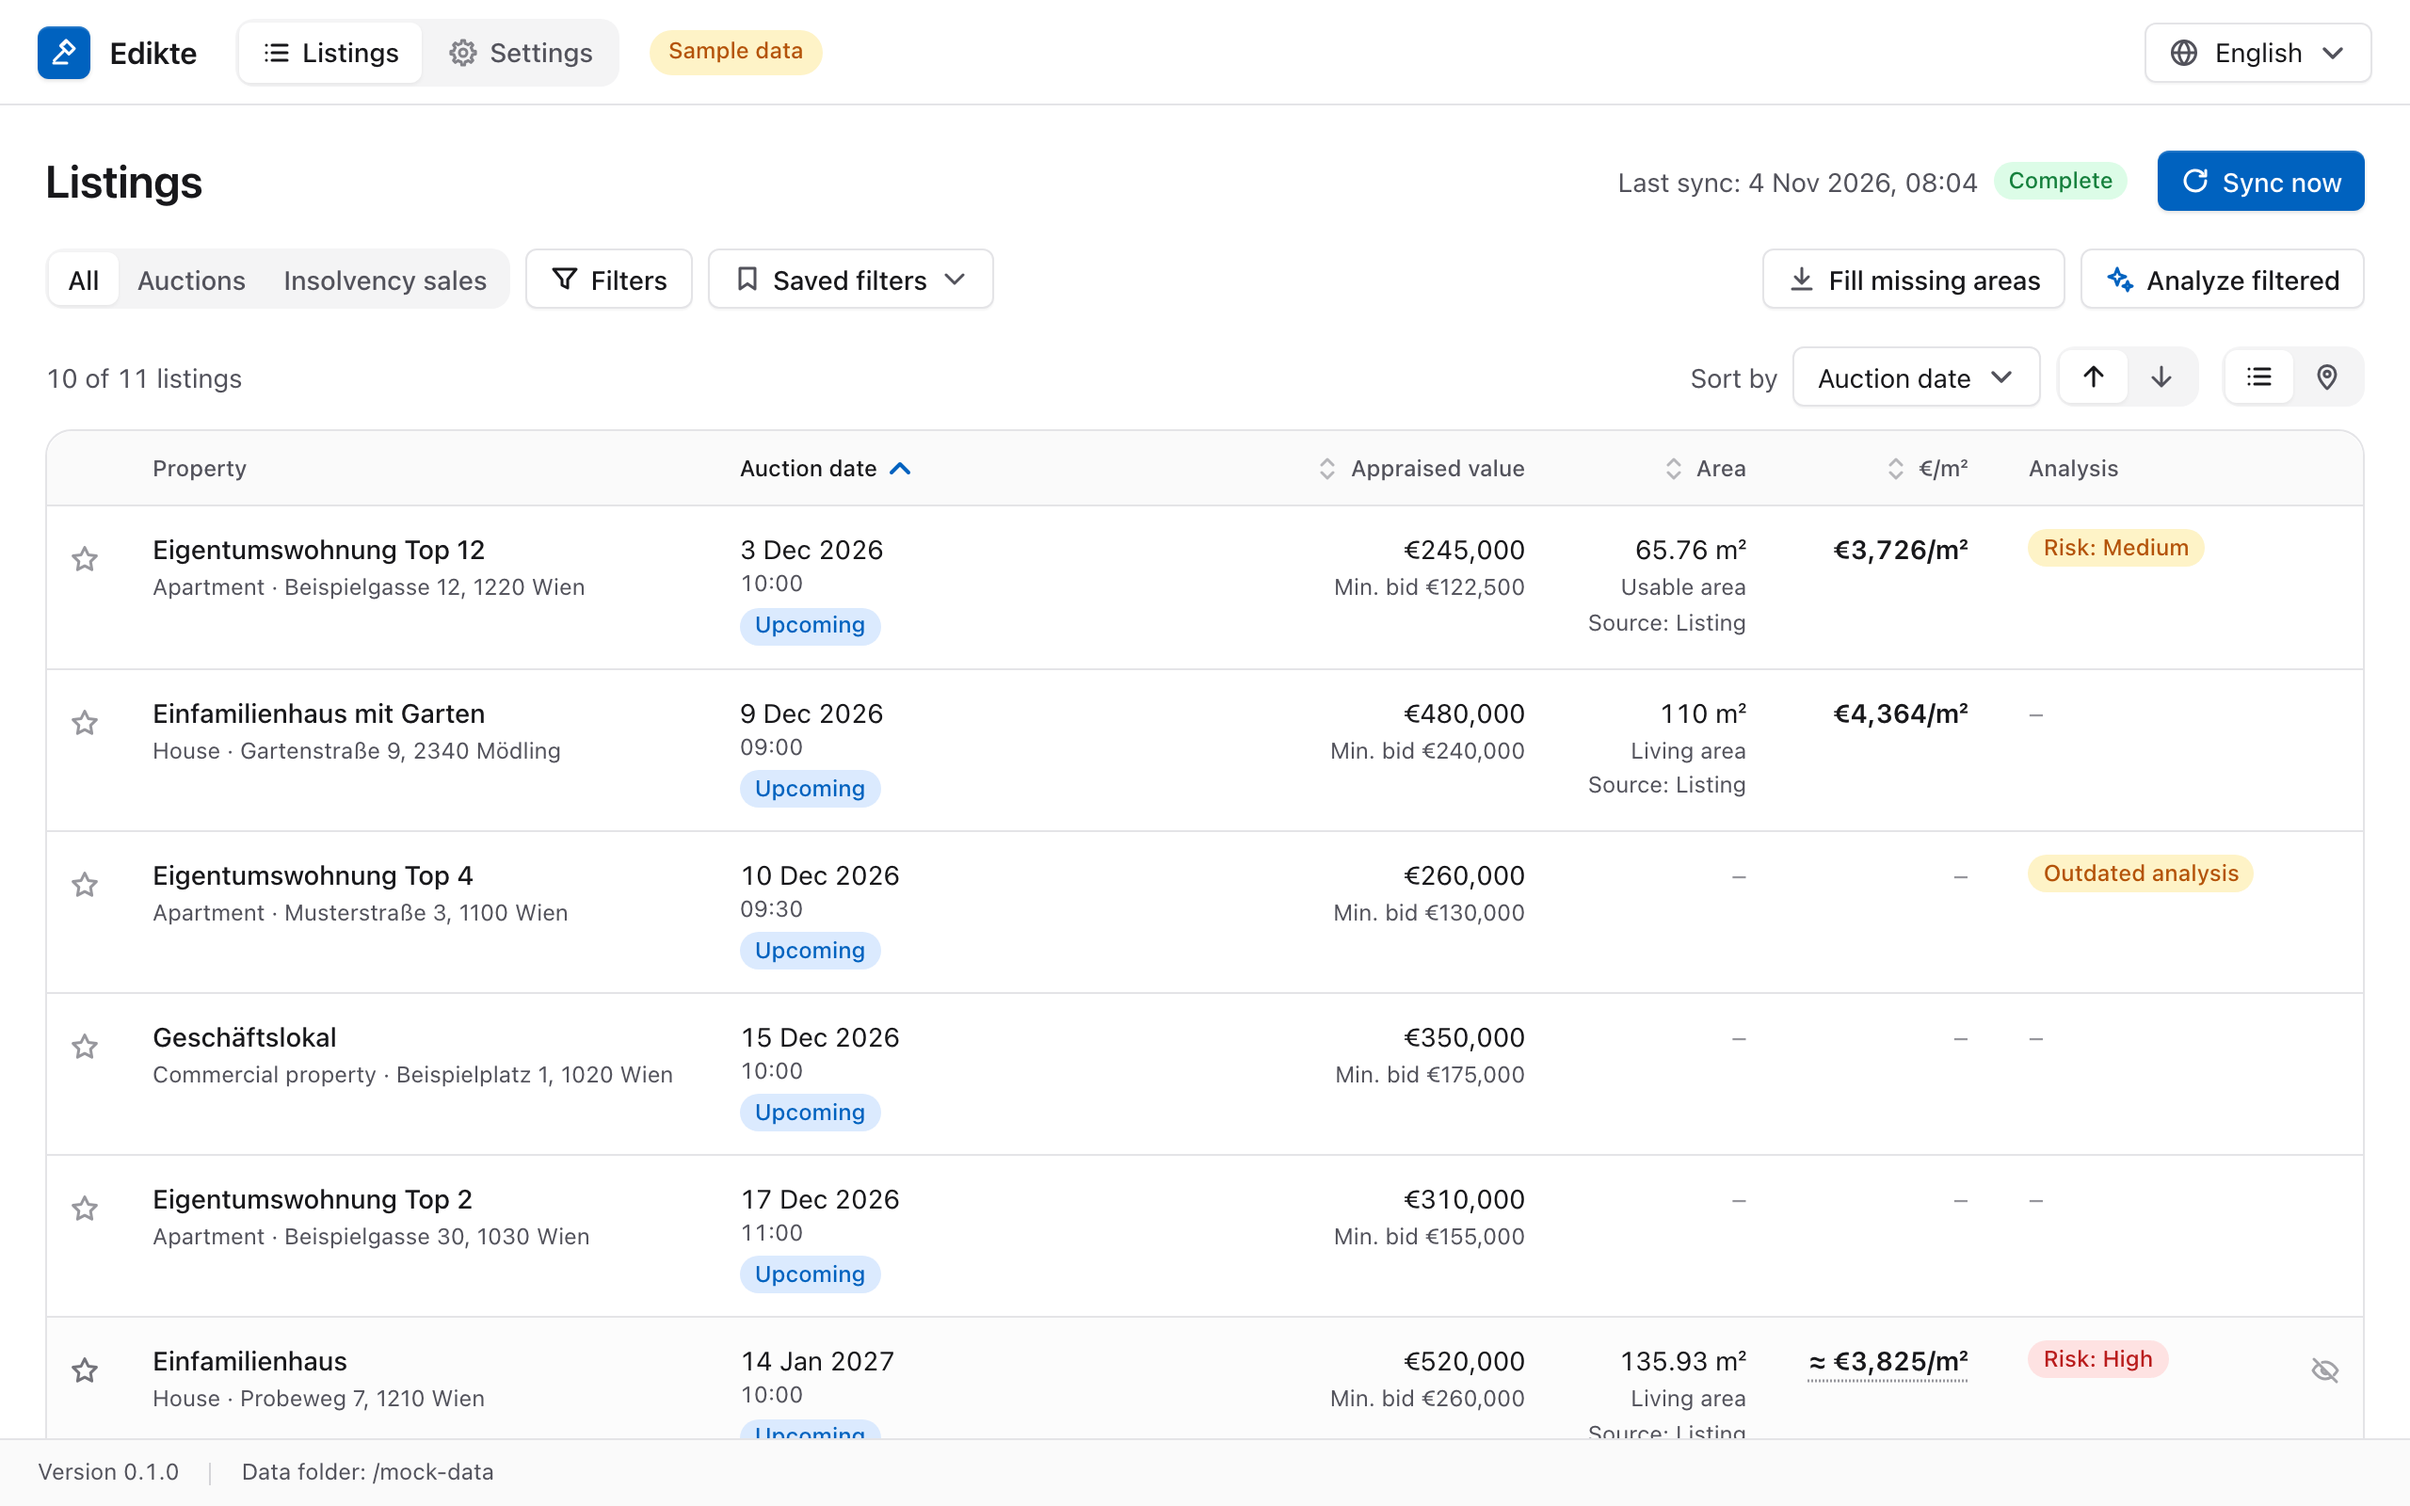
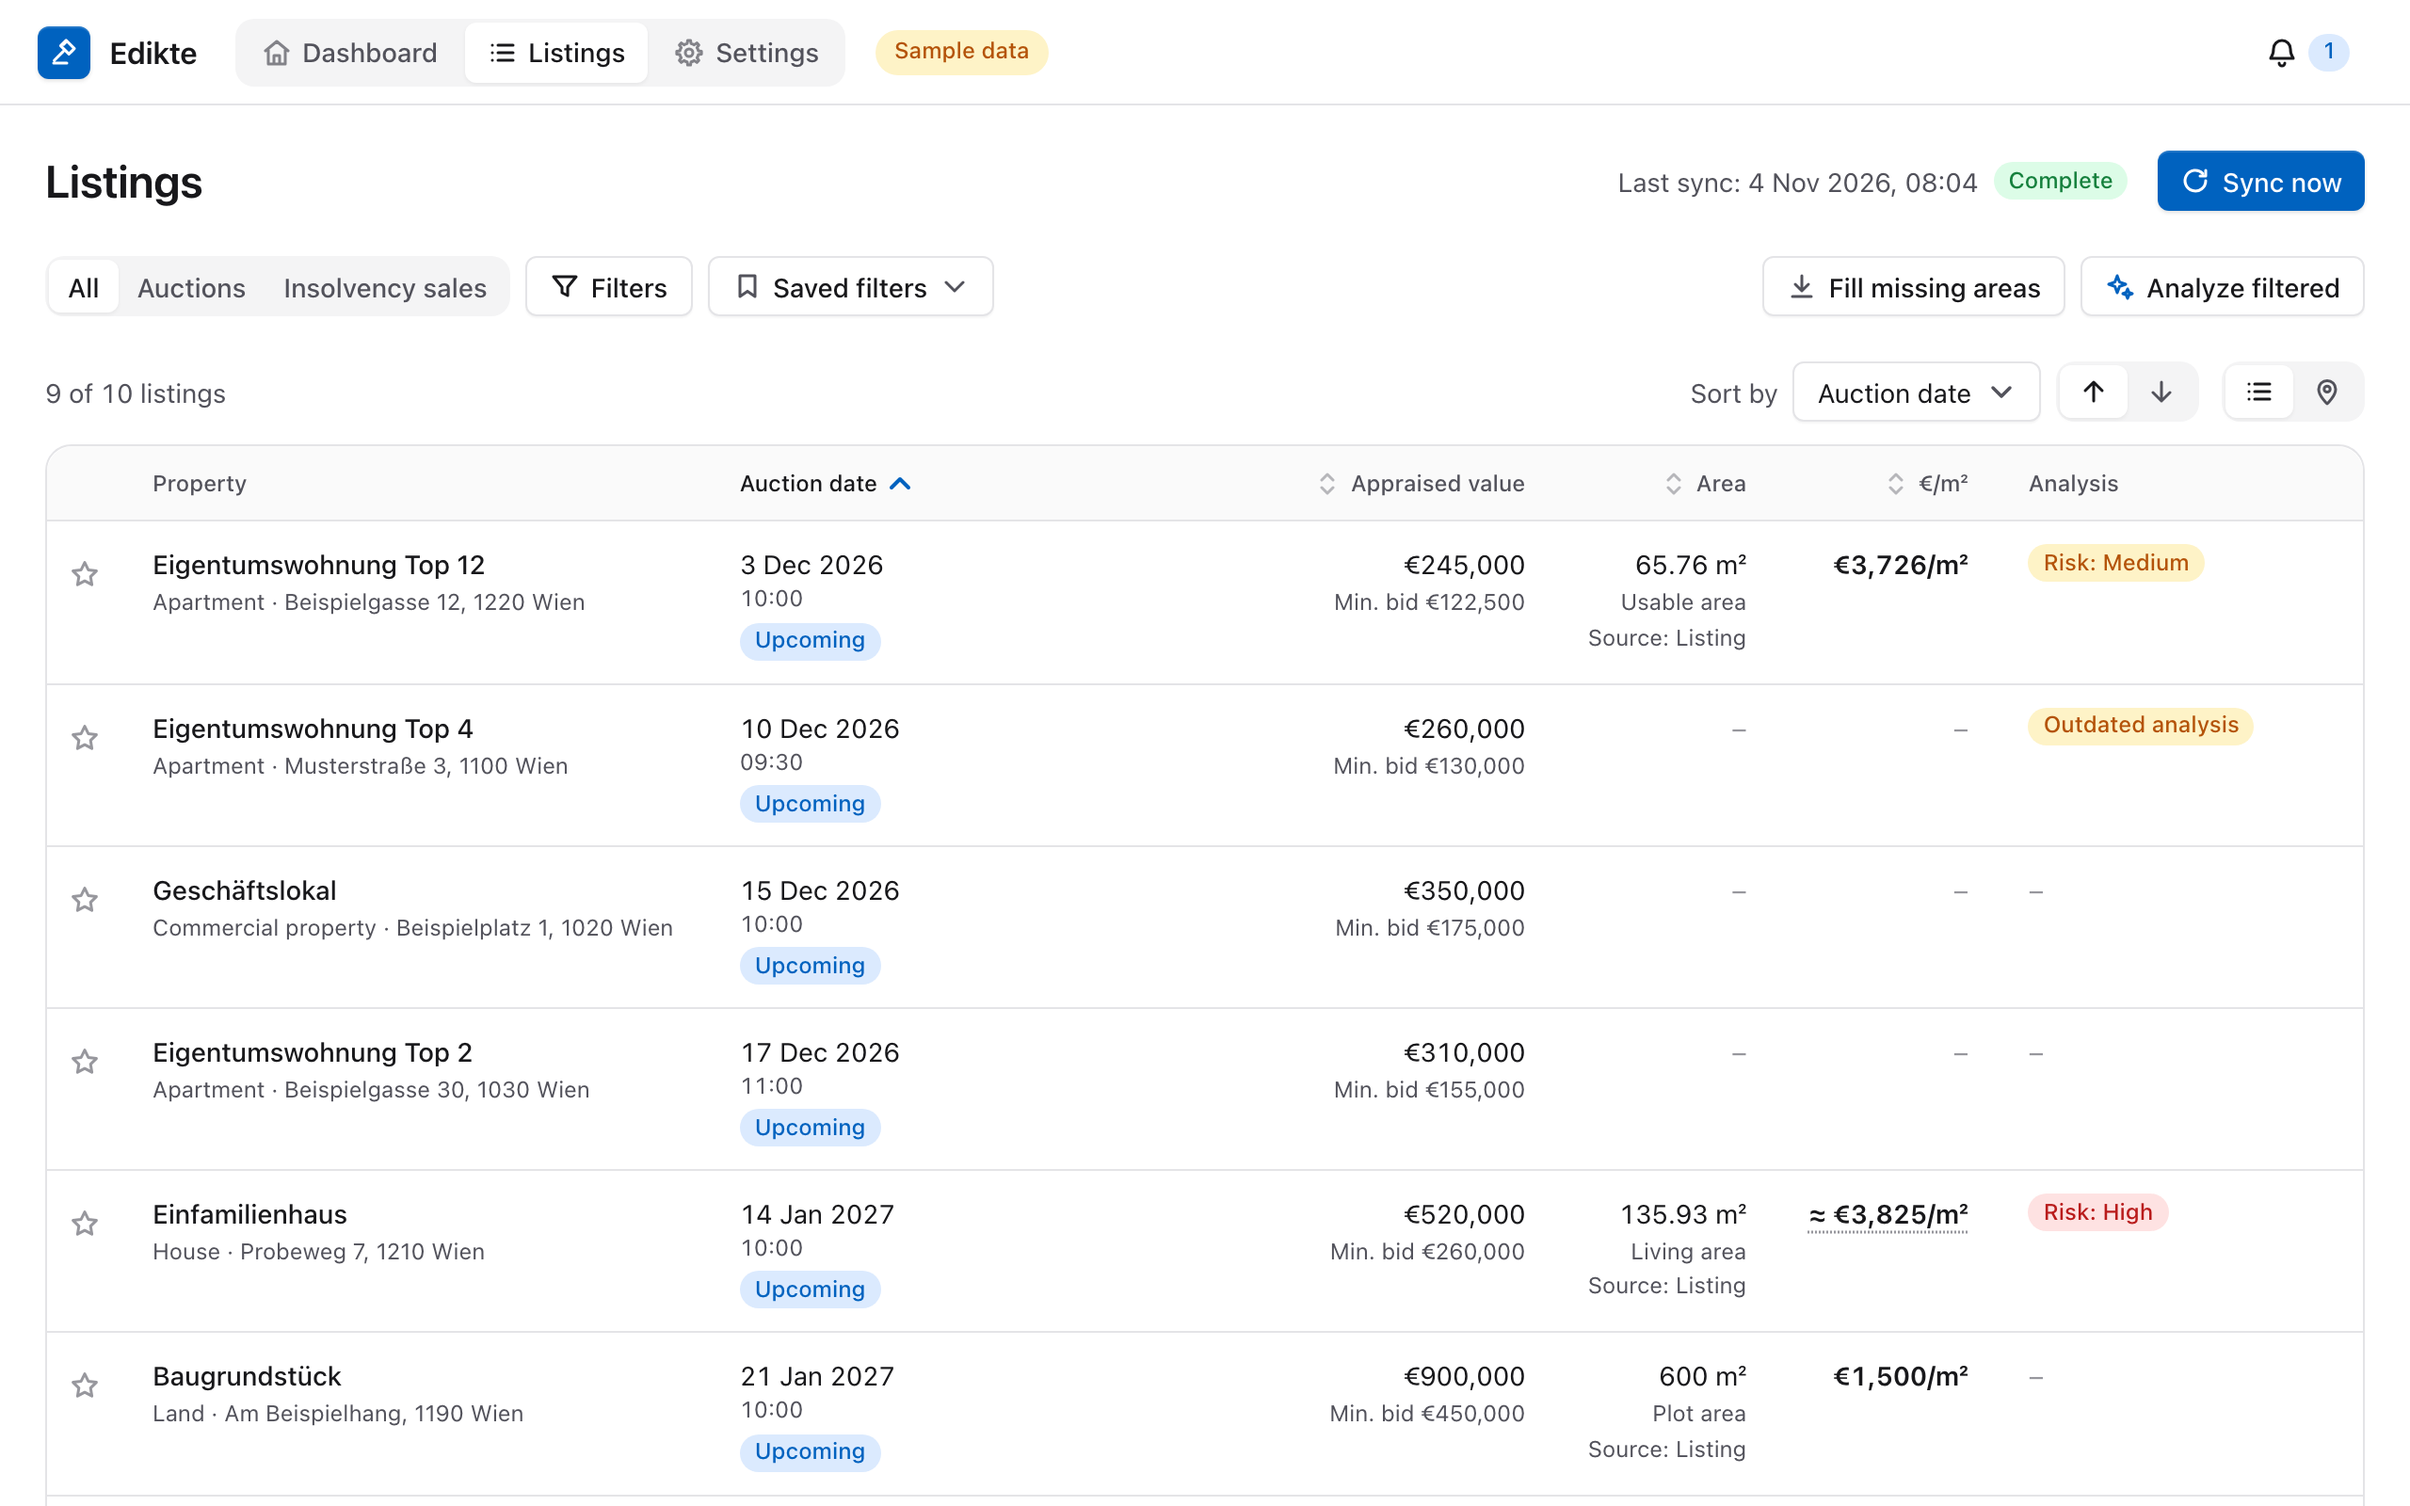
docs(readme): regenerate screenshots for the current shell
The images dated from 0.1.0 and still showed the footer and the header
language picker. All twelve now show the dashboard entry in the
navigation, the notification bell and the current sample data.

Setup ends on the dashboard, so the screenshot script opens Listings
before it captures; without that step it timed out waiting for the
list heading.

diff --git a/SESSION_HANDOFF.md b/SESSION_HANDOFF.md
@@ -81,4 +81,6 @@ This is the concurrent renderer work named under "Remaining / known gaps". It is
 
 Checked before the commit: `npm run typecheck`, `npm run lint`, `npm run format:check`, `npm test` (805 passed, 2 skipped), `npm run test:e2e` (1 passed, run in the Terminal panel), and the mock renderer in English and German, light and dark, at 960 and 1280 px.
 
-Not checked: Windows, a packaged build, and the README screenshots in `docs/screenshots/`, which still show the footer and the old dashboard (`npm run screenshots` regenerates them).
+The README screenshots in `docs/screenshots/` were regenerated afterwards with `npm run screenshots`; the script now opens Listings after setup, which ends on the dashboard.
+
+Not checked: Windows and a packaged build.
